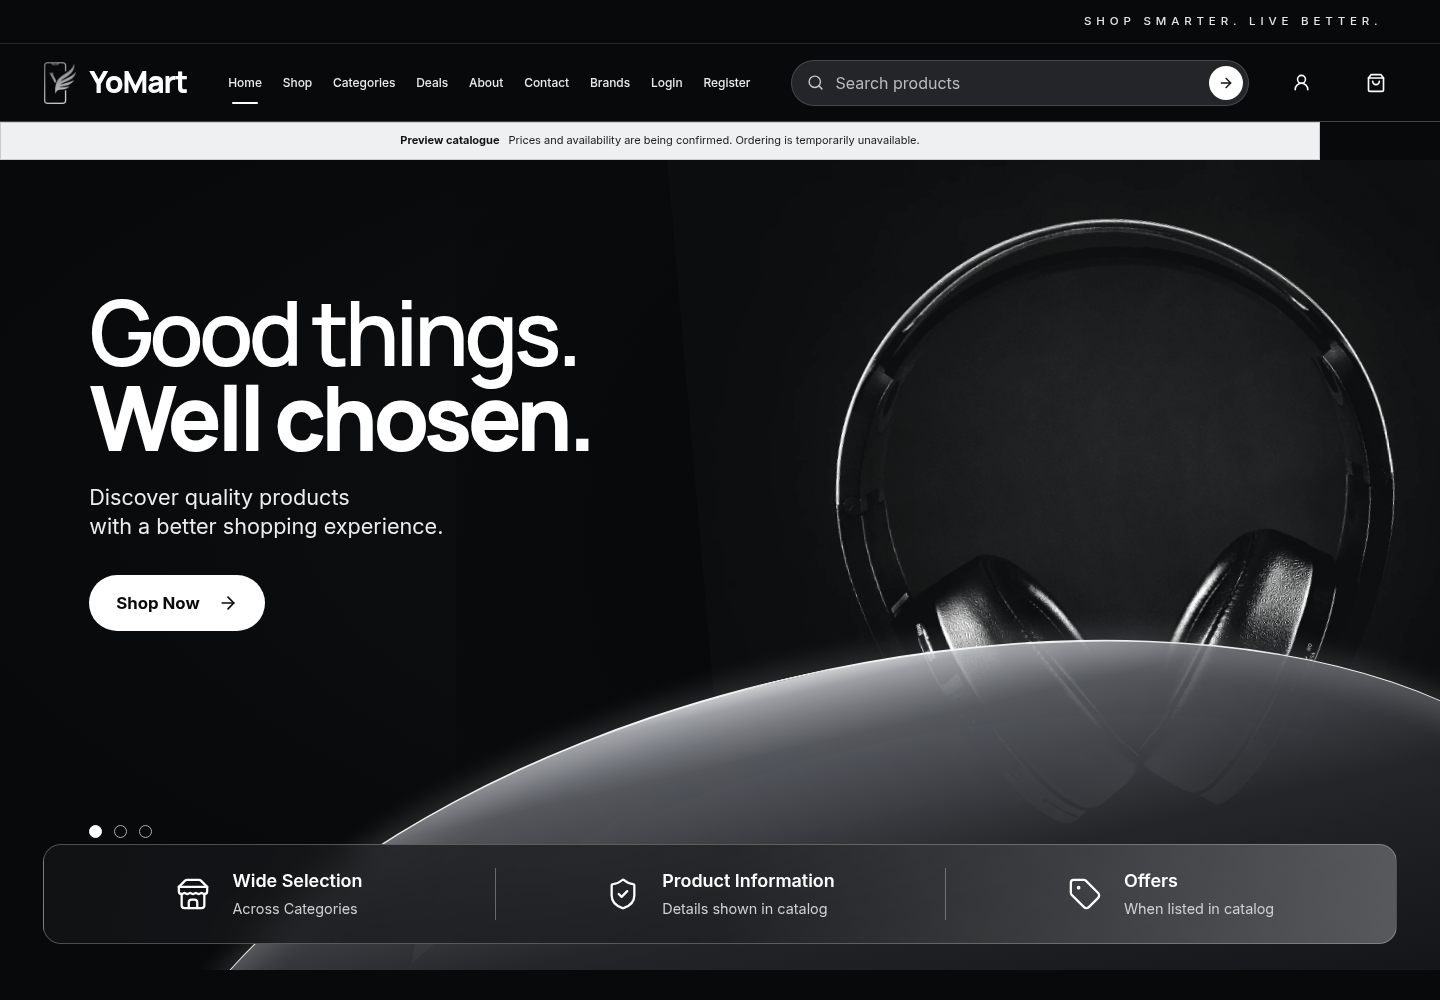
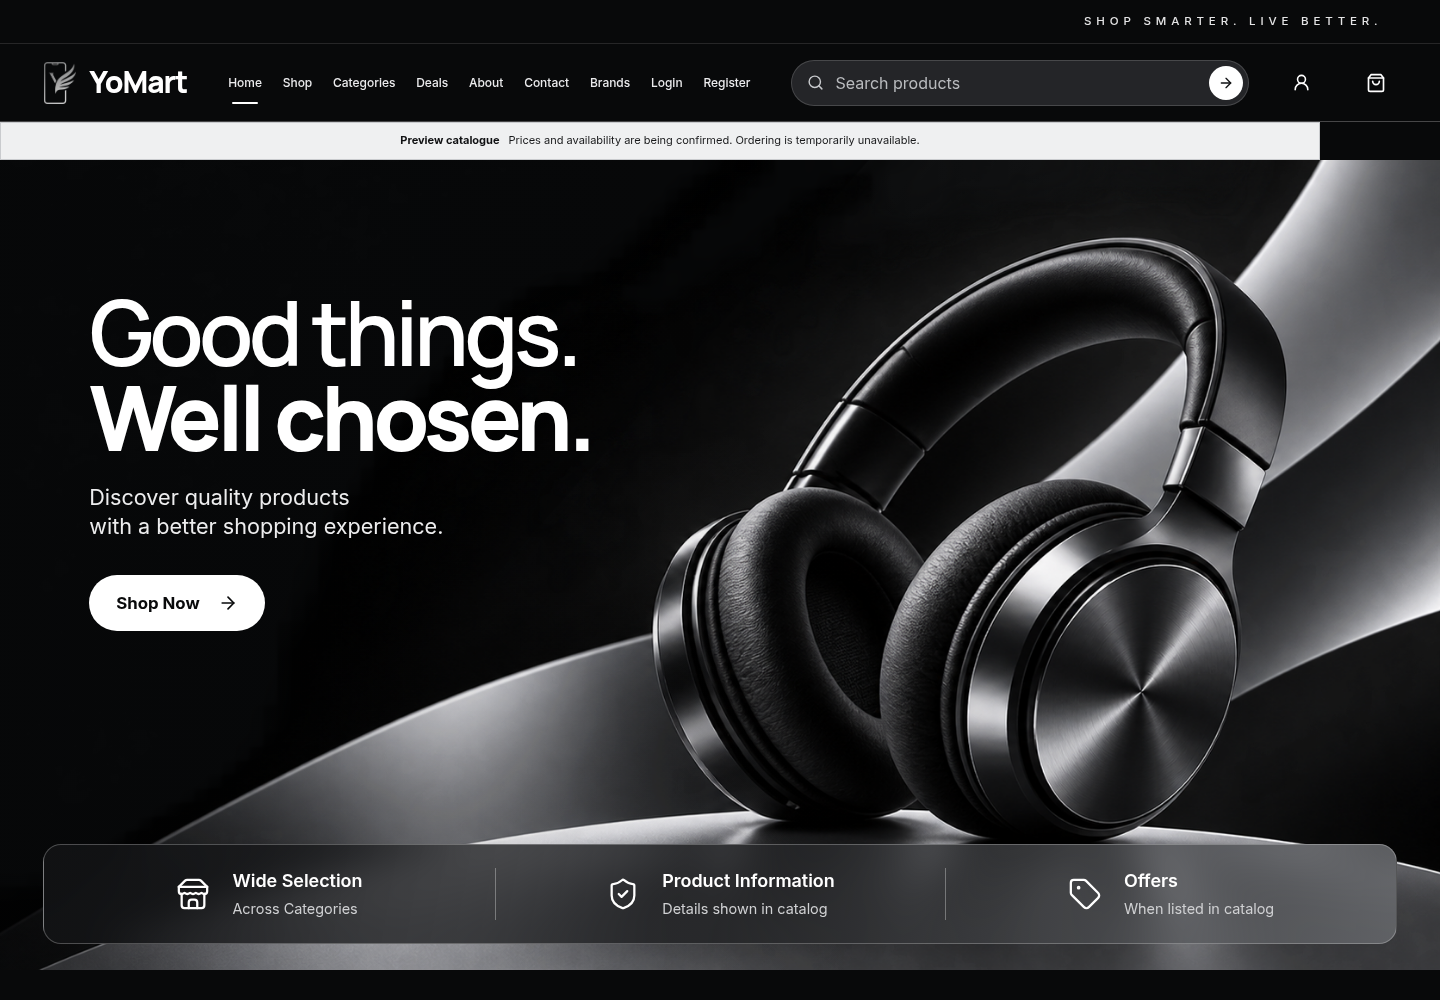
feat: integrate approved homepage headphone artwork

Changed region(s): [[0.0312, 0.155, 1.0, 0.992], [0.0625, 0.806, 0.0938, 0.837]]

diff --git a/src/style.css b/src/style.css
@@ -875,8 +875,10 @@ main > * { animation: page-enter 520ms var(--ease-emphasized) both; }
 .home-site-frame .wordmark img { filter: grayscale(1) brightness(0) invert(1); }
 .home-site-frame .preview-catalog-notice { margin: 0; border-radius: 0; }
 .homepage { color: #f7f7f8; background: #08090a; }
-.homepage .hero-wrap { position: relative; width: 100%; min-height: min(810px, calc(100svh - 150px)); margin: 0; padding: clamp(72px, 9vw, 150px) max(6.2vw, calc((100% - 1500px) / 2)) 148px; overflow: hidden; display: block; border: 0; border-radius: 0; isolation: isolate; background: radial-gradient(ellipse at 82% 42%, #151618 0%, #0c0d0e 47%, #08090a 76%); box-shadow: none; }
-.homepage .hero-wrap::before { position: absolute; z-index: -1; inset: -10% -4% -5% 28%; background: radial-gradient(ellipse at 91% 42%, rgb(218 219 221 / 65%) 0%, #787b80 13%, transparent 28%), linear-gradient(148deg, transparent 0 54%, rgb(210 211 214 / 48%) 54.2%, rgb(80 82 86 / 68%) 59%, transparent 63%), linear-gradient(166deg, transparent 0 72%, rgb(205 206 209 / 56%) 72.2%, #66696e 77%, transparent 81%); clip-path: polygon(15% 0,100% 0,100% 100%,0 100%); opacity: .82; content: ''; pointer-events: none; }
+.homepage .hero-wrap { position: relative; width: 100%; min-height: min(810px, calc(100svh - 150px)); margin: 0; padding: clamp(72px, 9vw, 150px) max(6.2vw, calc((100% - 1500px) / 2)) 148px; overflow: hidden; display: block; border: 0; border-radius: 0; isolation: isolate; background: #08090a; box-shadow: none; }
+.homepage .hero-artwork { position: absolute; z-index: 0; inset: 0; overflow: hidden; pointer-events: none; }
+.homepage .hero-artwork::after { position: absolute; inset: 0; background: linear-gradient(90deg, rgb(5 6 7 / 28%) 0%, rgb(5 6 7 / 10%) 34%, transparent 61%); content: ''; }
+.homepage .hero-artwork img { display: block; width: 100%; height: 100%; object-fit: cover; object-position: center; }
 .homepage .hero-copy { position: relative; z-index: 3; width: min(48%, 650px); }
 .homepage .hero-copy h1 { display: grid; max-width: 12ch; margin: 0 0 22px; color: #fff; font-family: var(--font-display); font-size: clamp(3.6rem, 6.2vw, 6.7rem); font-weight: 300; letter-spacing: -.052em; line-height: .96; }
 .homepage .hero-copy h1 span { font-weight: 300; }
@@ -885,15 +887,7 @@ main > * { animation: page-enter 520ms var(--ease-emphasized) both; }
 .homepage .hero-shop-button { min-height: 56px; width: fit-content; display: inline-flex; align-items: center; gap: 18px; margin-top: 34px; padding: 0 27px; border-radius: 30px; color: #090a0b; background: #fff; font-size: 1.05rem; font-weight: 700; text-decoration: none; transition: transform 180ms ease, background 180ms ease; }
 .homepage .hero-shop-button:hover { transform: translateY(-2px); background: #e5e5e6; }
 .homepage .hero-shop-button:focus-visible { outline: 3px solid #9ea1a6; outline-offset: 4px; }
-.homepage .hero-stage { position: absolute; z-index: auto; top: 0; right: 0; bottom: 115px; width: 61%; max-height: none; aspect-ratio: auto; pointer-events: none; animation: none; }
-.homepage .hero-stage::before { position: absolute; z-index: 1; inset: -18% -12%; background: radial-gradient(ellipse at 54% 52%, #08090a 0 49%, rgb(8 9 10 / 94%) 62%, transparent 88%); content: ''; }
-.homepage .hero-silver-arc { position: absolute; display: block; border-radius: 50%; pointer-events: none; }
-.homepage .hero-silver-arc-one { z-index: 3; left: -50%; bottom: -83%; width: 172%; height: 110%; transform: rotate(-13deg); border-top: 2px solid rgb(246 247 249 / 92%); background: linear-gradient(180deg, rgb(222 224 228 / 88%) 0%, rgb(167 170 176 / 88%) 2%, rgb(91 94 100 / 92%) 9%, rgb(36 38 42 / 96%) 29%, #101113 64%, #08090a 100%); box-shadow: inset 0 16px 28px rgb(255 255 255 / 15%), 0 -10px 24px rgb(225 227 230 / 14%); }
-.homepage .hero-silver-arc-two { z-index: 2; left: -34%; bottom: -88%; width: 155%; height: 105%; transform: rotate(-13deg); border-top: 1px solid rgb(30 31 34 / 95%); background: linear-gradient(180deg, rgb(38 40 44 / 92%), #08090a 42%); }
-.homepage .hero-headphones { position: absolute; z-index: 2; top: 3%; right: -12%; width: 100%; height: 96%; object-fit: contain; object-position: 52% 49%; transform: translateY(6%) scale(1.55) rotate(-5deg); mix-blend-mode: screen; filter: grayscale(1) brightness(1.25) contrast(1.1) drop-shadow(0 24px 34px rgb(0 0 0 / 48%)); }
-.homepage .hero-indicators { position: absolute; z-index: 4; bottom: 132px; left: max(6.2vw, calc((100% - 1500px) / 2)); display: flex; gap: 12px; }
-.homepage .hero-indicators i { width: 13px; height: 13px; border: 1px solid #aeb0b4; border-radius: 50%; background: transparent; }
-.homepage .hero-indicators i.active { border-color: #fff; background: #fff; }
+.homepage .hero-copy { z-index: 2; }
 .homepage .hero-features { position: absolute; z-index: 4; right: max(3vw, calc((100% - 1540px) / 2)); bottom: 26px; left: max(3vw, calc((100% - 1540px) / 2)); min-height: 100px; display: grid; grid-template-columns: repeat(3, 1fr); align-items: center; border: 1px solid rgb(255 255 255 / 25%); border-radius: 18px; background: linear-gradient(100deg, rgb(19 20 22 / 82%), rgb(31 32 34 / 71%), rgb(110 112 116 / 74%)); backdrop-filter: blur(18px); }
 .homepage .hero-features > div { min-height: 52px; display: flex; align-items: center; justify-content: center; gap: 22px; }
 .homepage .hero-features > div + div { border-left: 1px solid rgb(255 255 255 / 32%); }
@@ -910,7 +904,6 @@ main > * { animation: page-enter 520ms var(--ease-emphasized) both; }
   .homepage .hero-wrap { min-height: 690px; padding: 110px 5vw 140px; }
   .homepage .hero-copy { width: 55%; }
   .homepage .hero-copy h1 { font-size: clamp(3.5rem, 8vw, 5rem); }
-  .homepage .hero-stage { width: 64%; bottom: 120px; }
 }
 @media (max-width: 700px) {
   .home-site-frame .announcement { min-height: 32px; padding-right: 18px; }
@@ -926,23 +919,20 @@ main > * { animation: page-enter 520ms var(--ease-emphasized) both; }
   .home-site-frame .main-nav a { min-height: 42px; color: #fff; font-size: .9rem; }
   .home-site-frame .header-search { order: 4; flex: 0 0 100%; max-width: none; height: 40px; margin: 0; }
   .home-site-frame .preview-catalog-notice { order: 5; width: calc(100% + 32px); margin-inline: -16px; font-size: .68rem; }
-  .homepage .hero-wrap { min-height: 610px; padding: 54px 25px 120px; }
+  .homepage .hero-wrap { min-height: min(610px, calc(100svh - 214px)); padding: 54px 25px 120px; }
   .homepage .hero-copy { width: 100%; }
   .homepage .hero-copy h1 { max-width: 11ch; margin-bottom: 16px; font-size: clamp(3.2rem, 14vw, 4.1rem); }
   .homepage .hero-copy > p { max-width: 28ch; font-size: 1rem; }
   .homepage .hero-shop-button { min-height: 48px; margin-top: 22px; padding-inline: 21px; font-size: .94rem; }
-  .homepage .hero-stage { top: 140px; right: -10%; bottom: 0; width: 110%; height: auto; }
-  .homepage .hero-stage::before { inset: -4% -10%; background: radial-gradient(ellipse at 58% 42%, #08090a 0 42%, rgb(8 9 10 / 92%) 56%, transparent 82%); }
-  .homepage .hero-headphones { top: 0; right: -18%; width: 100%; height: 100%; object-fit: contain; object-position: 50% 38%; transform: translateY(-5%) scale(1.28) rotate(-5deg); }
-  .homepage .hero-silver-arc-one { left: -57%; bottom: -83%; width: 190%; height: 112%; transform: rotate(-9deg); }
-  .homepage .hero-silver-arc-two { left: -48%; bottom: -96%; width: 176%; height: 112%; transform: rotate(-9deg); }
-  .homepage .hero-indicators { bottom: 148px; left: 25px; }
-  .homepage .hero-features { right: 12px; bottom: 12px; left: 12px; min-height: 130px; grid-template-columns: repeat(2, minmax(0, 1fr)); grid-template-rows: 1fr 1fr; border-radius: 12px; }
+  .homepage .hero-artwork { inset: 185px -18px 0 0; }
+  .homepage .hero-artwork img { object-position: 88% center; }
+  .homepage .hero-artwork::after { background: linear-gradient(90deg, #08090a 0%, rgb(8 9 10 / 92%) 17%, rgb(8 9 10 / 38%) 49%, transparent 76%), linear-gradient(180deg, #08090a 0%, transparent 24%); }
+  .homepage .hero-features { z-index: 3; right: 12px; bottom: 12px; left: 12px; min-height: 130px; grid-template-columns: repeat(2, minmax(0, 1fr)); grid-template-rows: 1fr 1fr; border-radius: 12px; }
   .homepage .hero-features > div { min-height: 54px; flex-direction: row; gap: 8px; padding-inline: 8px; text-align: left; }
   .homepage .hero-features > div:nth-child(3) { grid-column: 1 / -1; min-height: 50px; justify-content: center; border-top: 1px solid rgb(255 255 255 / 28%); border-left: 0; }
   .homepage .hero-features svg { width: 20px; height: 20px; flex: none; }
-  .homepage .hero-features strong { font-size: .68rem; }
-  .homepage .hero-features small { max-width: none; font-size: .67rem; line-height: 1.2; }
+  .homepage .hero-features strong { font-size: .72rem; }
+  .homepage .hero-features small { max-width: none; font-size: .7rem; line-height: 1.2; }
 }
 @media (hover: none) {
   .quick-add { opacity: 1; transform: none; }

diff --git a/src/pages/HomePage.jsx b/src/pages/HomePage.jsx
@@ -27,12 +27,9 @@ export default function HomePage() {
         <p>Discover quality products<br className="hero-copy-break" /> with a better shopping experience.</p>
         <Link className="hero-shop-button" to="/products">Shop Now <ArrowRight size={20} aria-hidden="true" /></Link>
       </div>
-      <div className="hero-stage" aria-label="Illustrative black over-ear headphones against a silver studio backdrop">
-        <div className="hero-silver-arc hero-silver-arc-one" />
-        <div className="hero-silver-arc hero-silver-arc-two" />
-        <img className="hero-headphones" src="/homepage-headphones.webp" alt="" fetchPriority="high" />
+      <div className="hero-artwork" aria-hidden="true">
+        <img src="/homepage-headphones-hero.png" alt="" fetchPriority="high" />
       </div>
-      <div className="hero-indicators" aria-hidden="true"><i className="active"/><i/><i/></div>
       <div className="hero-features" aria-label="Shopping information">
         <div><Store aria-hidden="true"/><span><strong>Wide Selection</strong><small>Across Categories</small></span></div>
         <div><ShieldCheck aria-hidden="true"/><span><strong>Product Information</strong><small>Details shown in catalog</small></span></div>

diff --git a/docs/redesign-review/homepage/review-notes.md b/docs/redesign-review/homepage/review-notes.md
@@ -1,20 +1,31 @@
-# Homepage visual review
+# Homepage artwork review
 
-## Captures
+## Implementation
 
-The PNG files in this directory are browser screenshots of the local staging build at 1440×1000, 1280×900, and 390×844. They show the real application and its preview restrictions. The staging catalog API was unreachable during capture, so the page displays its preview notice and real empty/error states; no products or prices were fabricated. The screenshots contain no customer, order, or payment data.
+- Replaced the old front-facing illustration layer with `public/homepage-headphones-hero.png`, the owner-provided 1672×941 PNG. It is illustrative hero artwork only; it is not a catalog item. The existing `homepage-headphones.webp` file remains in the repository but is no longer referenced by the homepage.
+- The source artwork includes the three-quarter-view black headphones, dark left-side negative space, and metallic silver curves. It is displayed full-bleed on desktop, so its image edges blend with the hero surface. The duplicate CSS silver arcs and their image-blending treatment were removed.
+- Mobile uses a separate lower, right-biased crop. The hero height contracts on shorter mobile viewports so the three-part feature strip remains fully visible at 360×800. Feature descriptions were increased slightly for readability.
+- Preserved the headline, supporting copy, Shop Now route, official YoMart mark, all nine desktop navigation destinations, search/account/cart behavior, API-backed catalog sections, and preview-catalog restrictions.
+- Removed the decorative, non-interactive hero dots; the hero is static and no longer implies a carousel.
 
-## Current implementation
+## Screenshot captures
 
-- The homepage uses the black, charcoal, white, and silver direction, official YoMart wordmark asset, search/navigation/account/cart controls, Shop Now action, carousel indicators, and bottom feature strip.
-- The hero headphones remain illustrative and are not presented as a catalog product.
-- Homepage navigation order now follows Home, Shop, Categories, Deals, About, Contact.
-- The headphone image uses a screen blend over a dark radial backing to avoid the former rectangular photograph boundary. A broad silver foreground sweep now layers over the lower headphone area with a thin bright edge. Mobile keeps the text/action column clear, shows two feature groups side by side and a third across the strip, and keeps all three groups inside the 390×844 capture.
-- Desktop navigation includes Home, Shop, Categories, Deals, About, Contact, Brands, Login, and Register; the header search, account, and cart remain available.
-- Homepage CSS is scoped to the homepage selectors and responsive overrides.
+Captured from the local staging build using Chromium at device scale factor 1. The live catalog was not used to add any product to the hero; preview restrictions remain enabled.
 
-## Outstanding visual work
+- `desktop-1440x1000.png` — 1440×1000.
+- `desktop-1280x900.png` — 1280×900.
+- `mobile-390x844.png` — 390×844.
+- `mobile-360x800.png` — 360×800.
 
-- The supplied approved reference image was not present as a local file and is therefore not stored as `docs/design-reference/homepage-approved.png`. The screenshots cannot be compared pixel-by-pixel to the source reference until that original file is made available.
-- The available headphone source is front-facing rather than the reference's angled product composition. The metallic foreground sweep is CSS-rendered and remains an approximation of the approved studio surface, so visual acceptance is pending.
-- The preview banner is visible because this is a staging build; it is not part of a production page capture.
+## Visual inspection and remaining differences
+
+- Both desktop captures show the headphones dominant on the right, with the headline and Shop Now action clear on the left. The image’s silver sweep is integrated without a second CSS arc or a visible rectangular boundary. The feature strip overlays the lower composition without obscuring the headphone form.
+- Both mobile captures use the separate crop: text remains on the left/top, the headphones sit lower and to the right, and the feature strip fits inside each viewport. At 360px the right edge of the headphone artwork is intentionally cropped to keep the subject prominent.
+- The screenshots include the visible staging preview notice. No production catalog or checkout behavior is implied by these captures.
+- The flat reference artwork does not include separate layers, so the original image’s curve geometry and headphone lighting cannot be adjusted independently in CSS.
+
+## Validation
+
+- `npm test`: 49 passed, 0 failed.
+- Staging build: passed with the existing origin validation and noindex protections.
+- `git diff --check`: passed.
